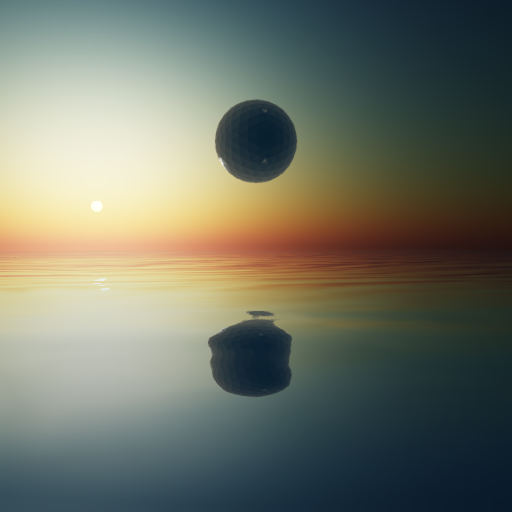
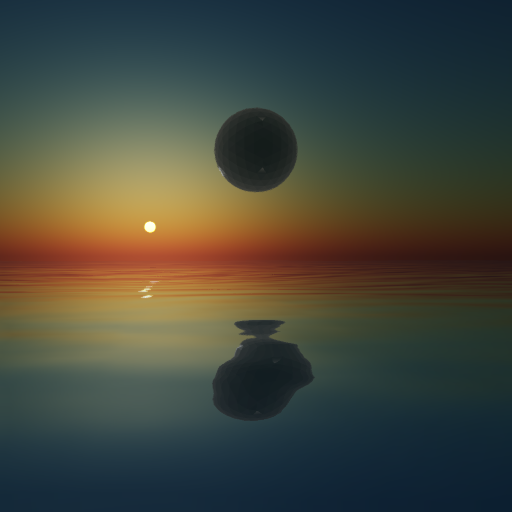
color adjust

diff --git a/src/js/main/ocean.ts b/src/js/main/ocean.ts
@@ -86,7 +86,6 @@ function ocean(scene: Scene) {
     ) as Animation;
     animation.setKeys(keys);
 
-    scene.stopAnimation(skybox);
     scene.beginDirectAnimation(skybox, [animation], 0, 100, false, 0.2);
   };
 
@@ -115,7 +114,7 @@ function ocean(scene: Scene) {
       Animation.ANIMATIONLOOPMODE_CONSTANT
     ) as Animation;
     animation.setKeys(keys);
-    scene.stopAnimation(light);
+
     scene.beginDirectAnimation(light, [animation], 0, 100, false, 0.2);
   };
 
@@ -147,40 +146,50 @@ function ocean(scene: Scene) {
     scene
   ) as HemisphericLight;
 
-  const daylightColor = new Color3(0.9, 0.9, 0.9) as Color3;
-  const oceanColorDay = new Color3(0.2, 0.25, 0.31) as Color3;
-  const duskColor = new Color3(0.75, 0.65, 0.5) as Color3;
-  const oceanColorNight = new Color3(0.03, 0.12, 0.18) as Color3;
+  const daylightColor = new Color3(0.89, 0.91, 0.92) as Color3;
+  const oceanColorDay = new Color3(0.48, 0.54, 0.59) as Color3;
+  const duskColor = new Color3(0.74, 0.69, 0.63) as Color3;
+  const oceanColorNight = new Color3(0.25, 0.37, 0.4) as Color3;
 
   window.addEventListener("keydown", function(evt) {
+    scene.stopAnimation(skybox);
+    scene.stopAnimation(light);
     switch (evt.keyCode) {
       case 49:
         setSkyConfig("material.inclination", skyboxMaterial.inclination, 0);
         setLightDirection("direction", light.direction, new Vector3(0, 1, 0));
         setLightColor("groundColor", light.groundColor, oceanColorDay);
         setLightColor("diffuse", light.diffuse, daylightColor);
-        setLightConfig("intensity", light.intensity, 1);
+        setLightConfig("intensity", light.intensity, 0.95);
+        setSkyConfig("material.turbidity", skyboxMaterial.turbidity, 1);
+        setSkyConfig("material.luminance", skyboxMaterial.luminance, 1);
         break; // 1
       case 50:
-        setSkyConfig("material.inclination", skyboxMaterial.inclination, 0.48);
-        setLightDirection("direction", light.direction, new Vector3(0, 0, -1));
+        setSkyConfig("material.inclination", skyboxMaterial.inclination, 0.485);
+        setLightDirection(
+          "direction",
+          light.direction,
+          new Vector3(0, 0.06, -1)
+        );
         setLightColor("groundColor", light.groundColor, oceanColorNight);
         setLightColor("diffuse", light.diffuse, duskColor);
-        setLightConfig("intensity", light.intensity, 1);
+        setLightConfig("intensity", light.intensity, 0.4);
+        setSkyConfig("material.turbidity", skyboxMaterial.turbidity, 1.4);
+        setSkyConfig("material.luminance", skyboxMaterial.luminance, 0.9);
         break; // 2
 
       case 51:
-        setSkyConfig("material.luminance", skyboxMaterial.luminance, 0.1);
+        setSkyConfig("material.luminance", skyboxMaterial.luminance, 0.8);
         break; // 3
       case 52:
-        setSkyConfig("material.luminance", skyboxMaterial.luminance, 1.0);
+        setSkyConfig("material.luminance", skyboxMaterial.luminance, 1.09);
         break; // 4
 
       case 53:
-        setSkyConfig("material.turbidity", skyboxMaterial.turbidity, 40);
+        setSkyConfig("material.turbidity", skyboxMaterial.turbidity, 30);
         break; // 5
       case 54:
-        setSkyConfig("material.turbidity", skyboxMaterial.turbidity, 5);
+        setSkyConfig("material.turbidity", skyboxMaterial.turbidity, 0);
         break; // 6
 
       default:
@@ -189,11 +198,13 @@ function ocean(scene: Scene) {
   });
   // Set to Day
   // setSkyConfig("material.inclination", skyboxMaterial.inclination, -0.44);
-  light.direction = new Vector3(0, 0, -1);
+  skyboxMaterial.turbidity = 1.4;
+  skyboxMaterial.luminance = 0.9;
+  light.direction = new Vector3(0, 0.06, -1);
   light.groundColor = oceanColorNight;
   light.diffuse = duskColor;
-  light.intensity = 1;
-  setSkyConfig("material.inclination", skyboxMaterial.inclination, 0.48);
+  light.intensity = 0.36;
+  skyboxMaterial.inclination = 0.485;
 
   // Water
   const waterMesh = MeshBuilder.CreateGround(

diff --git a/src/js/main/camera.ts b/src/js/main/camera.ts
@@ -28,10 +28,10 @@ function camera(
   // );
   camera = new UniversalCamera(
     "1stPerson",
-    new Vector3(mapGlobals.size / 8, 25, mapGlobals.size / 2.1),
+    new Vector3(mapGlobals.size / 12, 25, mapGlobals.size / 2.1),
     scene
   ) as UniversalCamera;
-  camera.setTarget(Vector3.Zero());
+  camera.setTarget(new Vector3(0, 25, 0));
   // Attach Control
   camera.attachControl(canvas, true);
 
